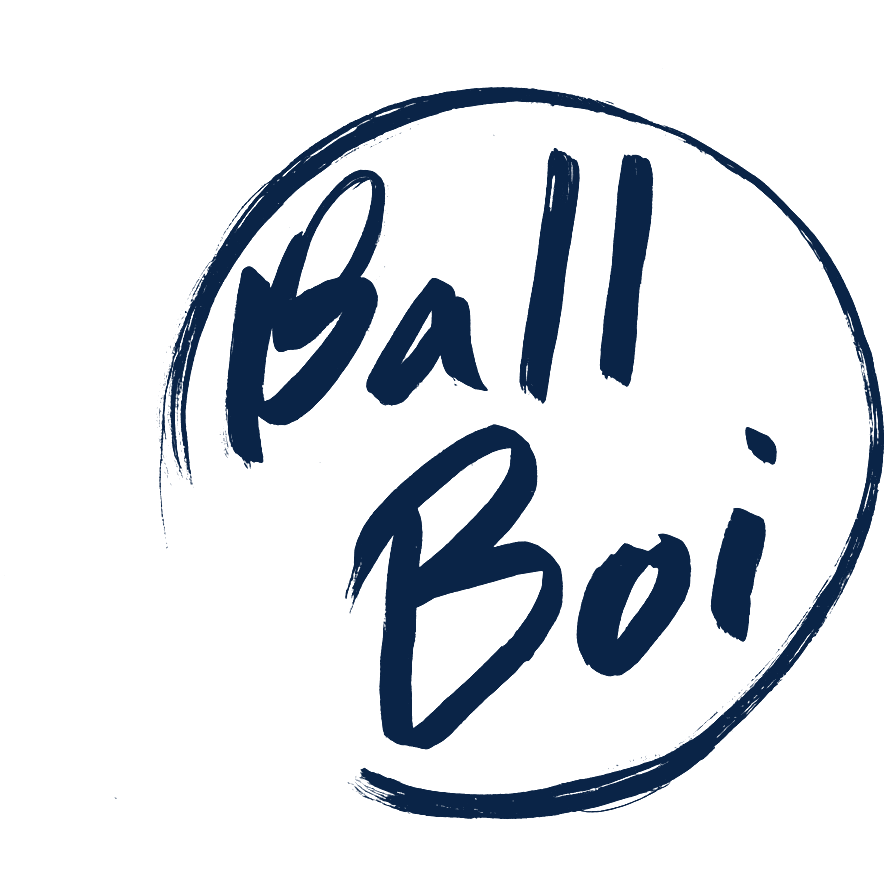
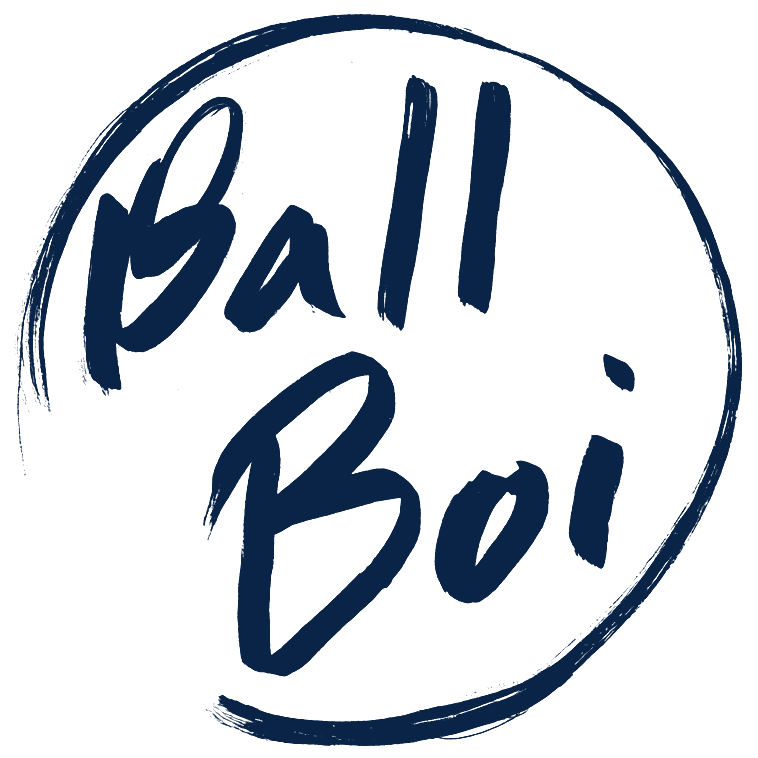
Marketing site: center the roundel on phones, faster ball rain
Roundel image recropped around the circle (stray flecks had pushed it
right of center). Phone ball rain now finishes in about 2s instead of 4s.

Claude-Session: https://claude.ai/code/session_01JMmTE1GUGmsZ9piTiFbGFk

Changed region(s): [[0.0, 0.0, 1.0, 1.0], [0.7889, 0.4551, 0.8799, 0.5462]]

diff --git a/artifacts/marketing-site/balls.js b/artifacts/marketing-site/balls.js
@@ -114,9 +114,9 @@
     mode = 'rain'; balls = [];
     const p = pillCenter();
     for (let i = 0; i < 60; i++) {
-      const x = Math.random() * W, y = -20 - Math.random() * H * 0.9;
+      const x = Math.random() * W, y = -20 - Math.random() * H * 0.6;
       balls.push({
-        x, y, x0: x, y0: y, vx: 0, vy: 1 + Math.random() * 1.5,
+        x, y, x0: x, y0: y, vx: 0, vy: 3 + Math.random() * 2,
         tx: p.x + (Math.random() - 0.5) * p.w * 0.7, sp: sprites[i % sprites.length],
         rot: Math.random() * 6.28, al: 1, s: 1, dis: false
       });
@@ -164,10 +164,10 @@
         } else {
           // Fall under gravity; x eases from the start point to a spot inside the pill,
           // so every ball lands in it.
-          b.vy = Math.min(b.vy + 0.2, 8); b.y += b.vy;
+          b.vy = Math.min(b.vy + 0.45, 16); b.y += b.vy;
           const t = Math.max(0, Math.min(1, (b.y - b.y0) / (p.y - b.y0)));
           b.x = b.x0 + (b.tx - b.x0) * t * t * (3 - 2 * t);
-          b.rot += 0.06;
+          b.rot += 0.1;
           if (b.y >= p.y - p.h / 2 + 4) { b.dis = true; pulse(now); }
         }
         continue;
@@ -194,6 +194,6 @@
     pill.addEventListener('pointerleave', burst);
     document.addEventListener('visibilitychange', () => { if (document.hidden) burst(); });
   } else {
-    setTimeout(startRain, 500);
+    setTimeout(startRain, 300);
   }
 })();

diff --git a/artifacts/marketing-site/index.html b/artifacts/marketing-site/index.html
@@ -39,7 +39,7 @@
     #balls{position:fixed;inset:0;width:100%;height:100%;pointer-events:none;z-index:10}
 
     main{flex:1;position:relative;display:grid;grid-template-columns:minmax(0,1fr) minmax(0,1.15fr);align-items:center;align-content:center;gap:clamp(32px,5vw,80px);max-width:1200px;width:100%;margin:0 auto;padding:48px 40px 24px}
-    .roundel{width:100%;max-width:440px;justify-self:end}
+    .roundel{width:100%;max-width:400px;justify-self:end}
     h1{font-size:clamp(30px,4.3vw,62px)}
     .sub{font-size:clamp(18px,1.8vw,24px);max-width:30ch}
     @media (max-width:760px){
@@ -54,7 +54,7 @@
 </head>
 <body>
   <main>
-    <img class="roundel" src="/assets/roundel-ink.png?v=2" width="888" height="888" alt="Ball Boi">
+    <img class="roundel" src="/assets/roundel-ink.png?v=3" width="758" height="758" alt="Ball Boi">
     <div class="copy">
     <h1><span>Matchmaker.</span> <span>League commissioner.</span> <span>Shot analyst.</span></h1>
     <p class="sub">Find players at your level, run your league and replay every shot. All on your phone.</p>
@@ -71,6 +71,6 @@
     <span>© 2026 Ball Boi Tennis</span>
   </footer>
   <canvas id="balls" aria-hidden="true"></canvas>
-  <script src="/balls.js?v=5" defer></script>
+  <script src="/balls.js?v=6" defer></script>
 </body>
 </html>

diff --git a/artifacts/marketing-site/privacy.html b/artifacts/marketing-site/privacy.html
@@ -26,7 +26,7 @@
 </head>
 <body>
   <a class="skip" href="#main">Skip to content</a>
-  <header class="top"><a href="/"><img src="/assets/roundel-ink.webp?v=2" alt="Ball Boi home" width="44" height="44"></a></header>
+  <header class="top"><a href="/"><img src="/assets/roundel-ink.webp?v=3" alt="Ball Boi home" width="44" height="44"></a></header>
 
   <main id="main">
     <h1>Privacy Policy</h1>

diff --git a/artifacts/marketing-site/terms.html b/artifacts/marketing-site/terms.html
@@ -26,7 +26,7 @@
 </head>
 <body>
   <a class="skip" href="#main">Skip to content</a>
-  <header class="top"><a href="/"><img src="/assets/roundel-ink.webp?v=2" alt="Ball Boi home" width="44" height="44"></a></header>
+  <header class="top"><a href="/"><img src="/assets/roundel-ink.webp?v=3" alt="Ball Boi home" width="44" height="44"></a></header>
 
   <main id="main">
     <h1>Terms of Use</h1>
